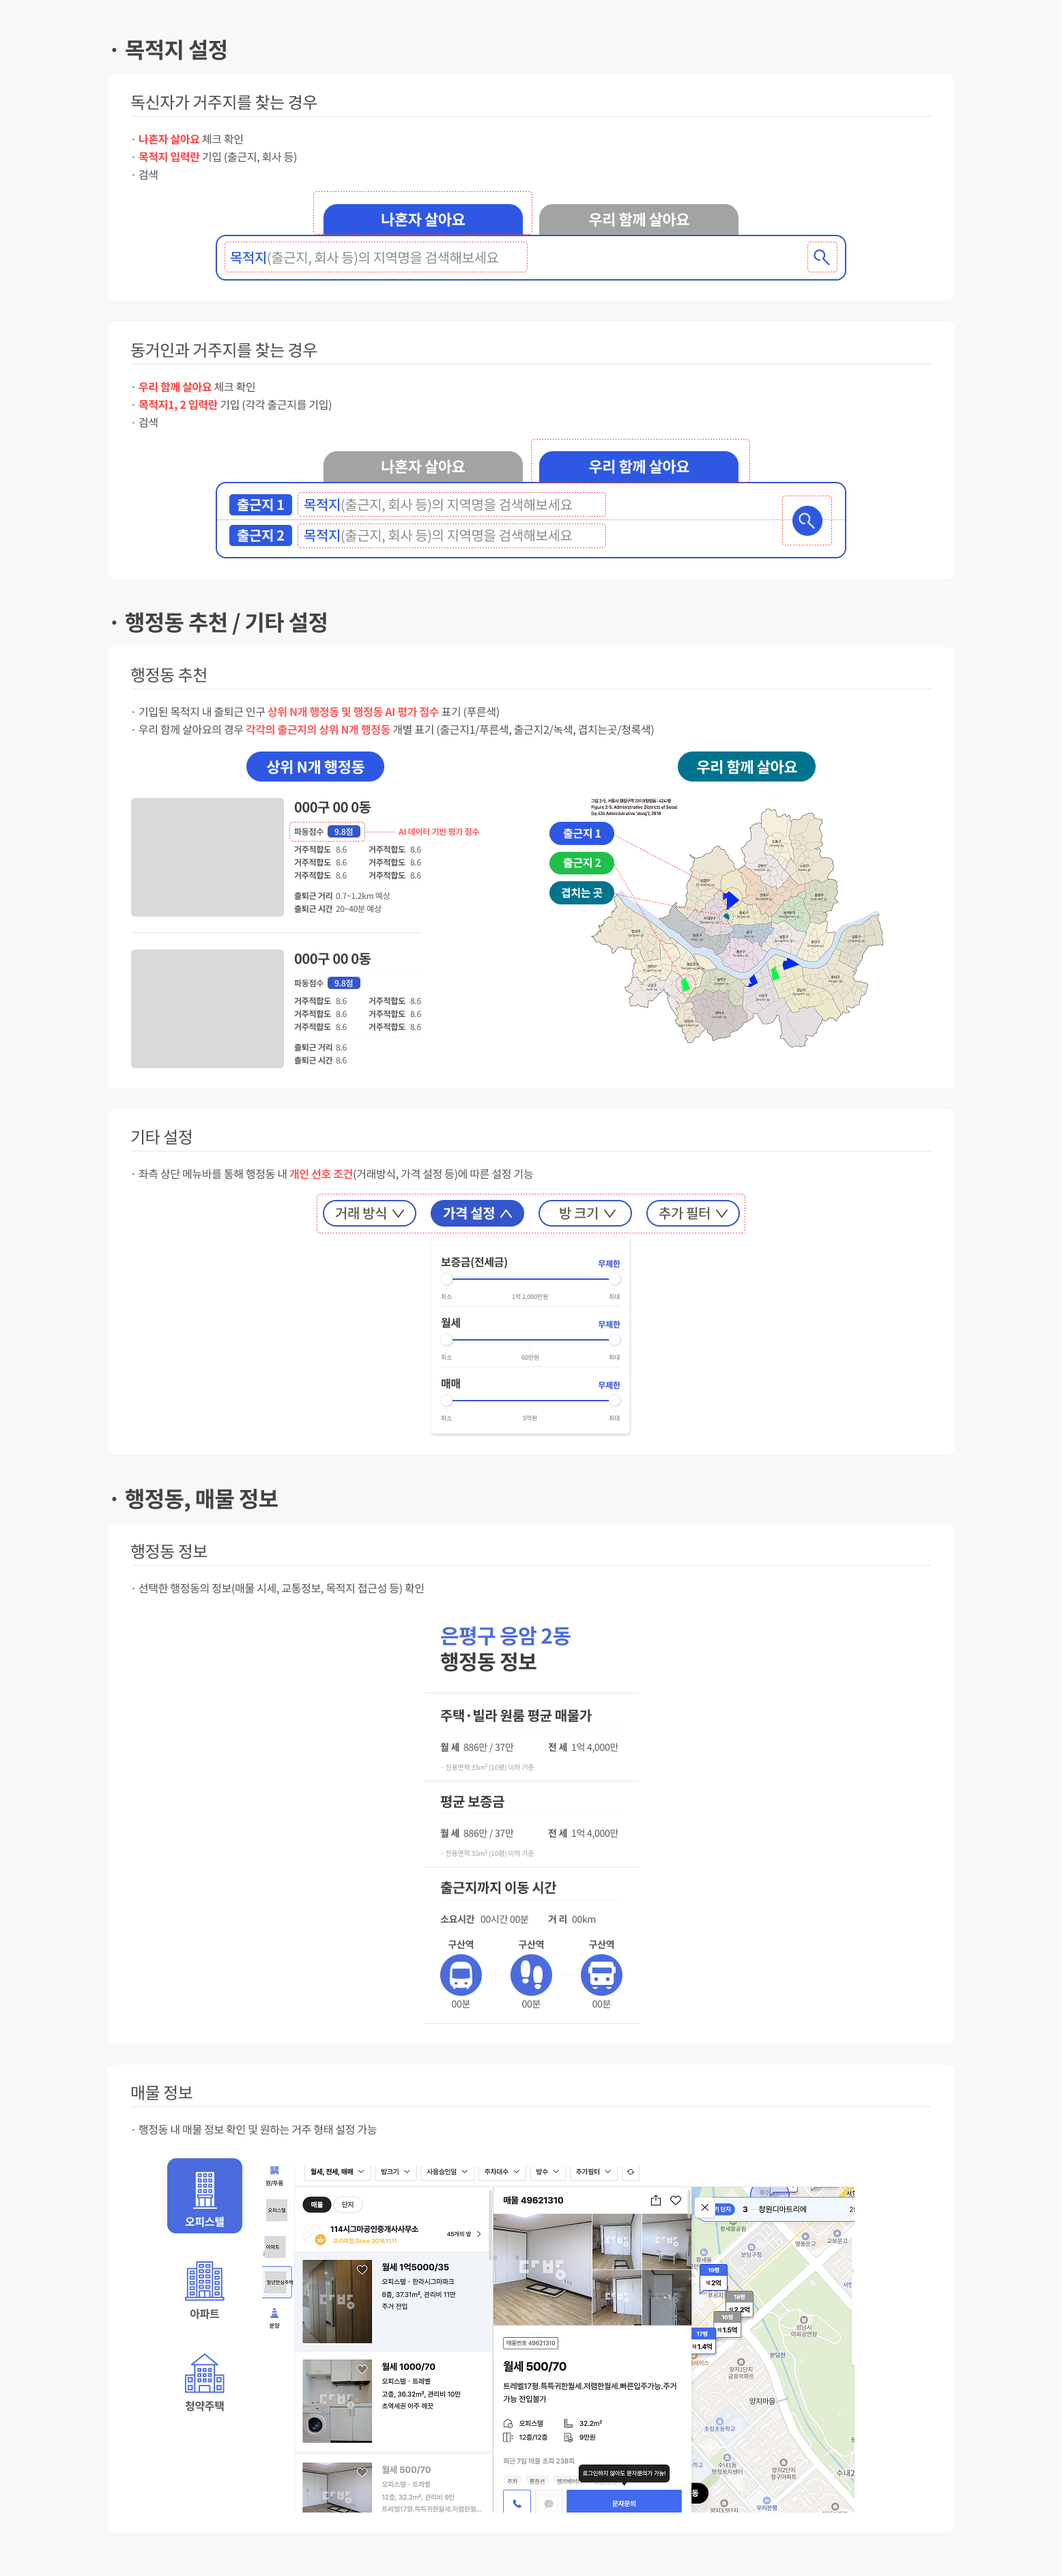
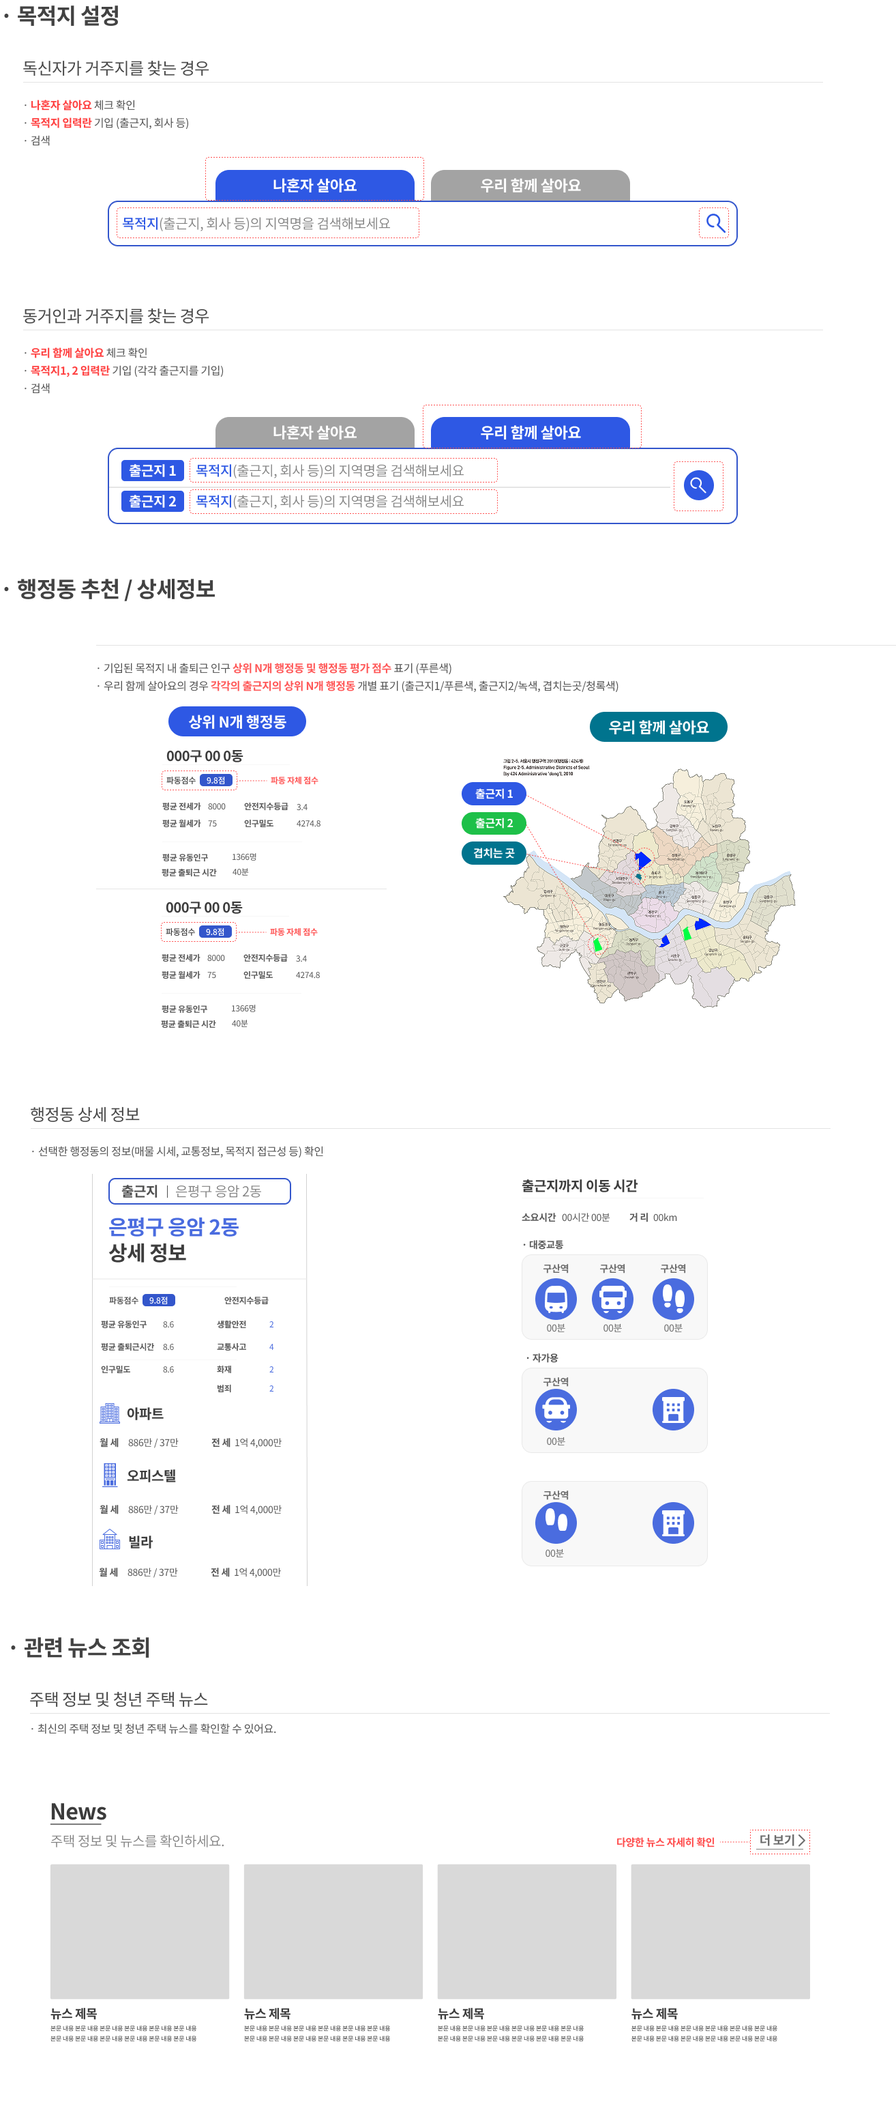
feat:Tmap api 사용하여 이동시간 구현

diff --git a/src/page/FindDong.tsx b/src/page/FindDong.tsx
@@ -4,11 +4,18 @@ import axios from "axios";
 import Header from "../components/Header";
 import { useEffect, useState } from "react";
 import Mobility from "../components/Mobility";
+import DongDetailMap from "../components/DongDetailMap";
 type RentPrice = {
   buildingType: string;
   avgJeonseDeposit: number;
   avgMonthlyDeposit: number;
   avgMonthlyRent: number;
+};
+type DongLocation = {
+  address: string;
+  type: string;
+  lat: number;
+  lng: number;
 };
 
 type DongDetailData = {
@@ -22,13 +29,15 @@ type DongDetailData = {
   crimes: number;
   publicSafety: number;
   rentPrice: RentPrice[];
+  location: DongLocation[];
 };
-const FindMap = () => {
+const FindDong = () => {
   const { selectedRecommendation, singleDestination } = useSearchStore();
   const [dongDetail, setDongDetail] = useState<DongDetailData | null>(null);
   const departureCode = singleDestination.dongCode;
   const arrivalCode = selectedRecommendation?.departureDong.adminDongCode || "";
 
+  const [location, setLocation] = useState<DongLocation[]>([]);
   useEffect(() => {
     const fetchDongDetail = async (
       arrivalCode: string,
@@ -38,7 +47,9 @@ const FindMap = () => {
         const res = await axios.get(
           `/api/dongne/detail?arrivalCode=${arrivalCode}&departureCode=${departureCode}`
         );
-        setDongDetail(res.data?.data ?? null);
+        const data = res.data?.data;
+        setDongDetail(data ?? null);
+        setLocation(data?.location ?? []); // ✅ 위치도 배열로 저장
       } catch (e) {
         console.error("추천 요청 실패:", e);
       }
@@ -51,11 +62,14 @@ const FindMap = () => {
 
   if (!dongDetail) return <div>로딩 중...</div>;
 
+  const departureLocation = location.find((loc) => loc.type === "departure");
+  const arrivalLocation = location.find((loc) => loc.type === "arrival");
+
   return (
     <div>
       <Header />
-      <div className="mt-5 ml-10 mr-10 flex flex-row space-x-10">
-        <aside className="basis-1/2 w-100 flex flex-col ">
+      <div className="mb-20 mt-5 ml-10 mr-10 flex flex-row space-x-30">
+        <aside className="h-[700px] snap-y overflow-y-auto basis-1/2 w-100 flex flex-col ">
           <div>
             <div className="p-2 w-full max-w-md border rounded-lg border-[#3356CC] border-2">
               <span className="font-[600] mr-2">출근지</span>
@@ -151,7 +165,7 @@ const FindMap = () => {
               <div className="mt-10" key={idx}>
                 <div className="flex items-center space-x-8">
                   <img
-                    className="w-[5.5vw] h-auto"
+                    className="w-[5vw] h-auto"
                     src={imagePath}
                     alt={buildingText}
                   />
@@ -174,18 +188,42 @@ const FindMap = () => {
                     {item.avgJeonseDeposit.toLocaleString()}
                   </span>
                 </div>
+
                 <hr className="mt-10 text-[#F2F2F2]" />
               </div>
             );
           })}
           <div>
-            <p>출근지까지 이동 시간</p>
-            <Mobility />
+            <p className="text-[#3D3D3D] font-bold text-2xl mt-5">
+              출근지까지 이동 시간
+            </p>
+            {departureLocation && arrivalLocation && (
+              <>
+                {console.log("출발지:", departureLocation)}
+                {console.log("도착지:", arrivalLocation)}
+                <Mobility
+                  start={{
+                    lat: departureLocation.lat,
+                    lng: departureLocation.lng,
+                  }}
+                  end={{
+                    lat: arrivalLocation.lat,
+                    lng: arrivalLocation.lng,
+                  }}
+                />
+              </>
+            )}
           </div>
         </aside>
+        <DongDetailMap
+          end={{
+            lat: arrivalLocation.lat,
+            lng: arrivalLocation.lng,
+          }}
+        />
       </div>
     </div>
   );
 };
 
-export default FindMap;
+export default FindDong;

diff --git a/src/components/Mobility.tsx b/src/components/Mobility.tsx
@@ -1,38 +1,98 @@
-import React from "react";
-import { useSearchStore } from "../store/SearchStore";
+import { useEffect, useState } from "react";
 
-const Mobility = () => {
-  const {
-    recommendations,
-    setSelectedRecommendation,
-    singleDestination,
-    multiDestinations,
-    inputType,
-  } = useSearchStore();
-  const departureCode = singleDestination.dongCode;
-  const arrivalCode = selectedRecommendation?.departureDong.adminDongCode || "";
-  const options = {
-    method: "POST",
-    headers: {
-      accept: "application/json",
-      "content-type": "application/json",
-      appKey: "e8wHh2tya84M88aReEpXCa5XTQf3xgo01aZG39k5",
-    },
-    body: JSON.stringify({
-      startX: "126.926493082645",
-      startY: "37.6134436427887",
-      endX: "127.126936754911",
-      endY: "37.5004198786564",
-      format: "json",
-      count: 1,
-    }),
+type Coord = {
+  lat: number;
+  lng: number;
+};
+
+type MobilityProps = {
+  start: Coord;
+  end: Coord;
+};
+
+const Mobility = ({ start, end }: MobilityProps) => {
+  const [errorMessage, setErrorMessage] = useState<string | null>(null);
+  const [route, setRoute] = useState<any | null>(null);
+  const appKey = import.meta.env.VITE_TMAP_APP_KEY;
+
+  const getRoute = async () => {
+    if (!start || !end) {
+      setErrorMessage("출발지 또는 도착지 좌표가 유효하지 않습니다.");
+      return;
+    }
+
+    try {
+      const now = new Date();
+      const searchDttm = now.toISOString().replace(/[-:T]/g, "").slice(0, 12); // YYYYMMDDHHmm
+
+      const options = {
+        method: "POST",
+        headers: {
+          accept: "application/json",
+          "content-type": "application/json",
+          appKey: appKey,
+        },
+        body: JSON.stringify({
+          startX: start.lng.toString(),
+          startY: start.lat.toString(),
+          endX: end.lng.toString(),
+          endY: end.lat.toString(),
+          format: "json",
+          count: 1,
+          searchDttm,
+        }),
+      };
+
+      const response = await fetch(
+        "https://apis.openapi.sk.com/transit/routes/sub",
+        options
+      );
+
+      if (!response.ok) {
+        const error = await response.json();
+        console.error("API 에러:", error);
+        setErrorMessage(`Tmap API 오류: ${response.status}`);
+        return;
+      }
+
+      const result = await response.json();
+      console.log("Tmap 결과:", result);
+
+      const itinerary = result.metaData?.plan?.itineraries?.[0];
+
+      if (!itinerary) {
+        setErrorMessage("도보 5분 이내에 위치해 있습니다");
+        return;
+      }
+
+      setRoute(itinerary);
+    } catch (err) {
+      console.error("Tmap API 요청 실패:", err);
+      setErrorMessage("Tmap API 요청 중 오류가 발생했습니다.");
+    }
   };
 
-  fetch("https://apis.openapi.sk.com/transit/routes/sub", options)
-    .then((res) => res.json())
-    .then((res) => console.log(res))
-    .catch((err) => console.error(err));
-  return <div></div>;
+  // 출발지/도착지가 바뀔 때만 호출되도록
+  useEffect(() => {
+    getRoute();
+  }, [start, end]);
+
+  return (
+    <div className="p-4 bg-gray-100 rounded-xl text-sm mt-5">
+      {errorMessage ? (
+        <p className="text-red-600">{errorMessage}</p>
+      ) : route ? (
+        <div>
+          <p>🚌 총 소요 시간: {route.totalTime}분</p>
+          <p>🚶 총 도보 시간: {route.totalWalkTime / 60}분</p>
+          <p>🔁 환승 횟수: {route.transferCount}회</p>
+          <p>📏 총 거리: {(route.totalDistance / 1000).toFixed(1)} km</p>
+        </div>
+      ) : (
+        <p>이동 경로 계산 중...</p>
+      )}
+    </div>
+  );
 };
 
 export default Mobility;

diff --git a/src/page/NewsList.tsx b/src/page/NewsList.tsx
@@ -15,10 +15,8 @@ const NewsList = () => {
         <h1 className="text-4xl font-bold mb-4">News</h1>
         <hr className="absolute left-0 w-screen border-t border-[#E5E5E5]" />
         <div className="relative z-10 mt-15">
-          <span className="border-b text-xl font-bold">청년안심주택</span>
-          <p className="my-3 text-[#818181]">
-            서울특별시의 청년안심주택사업의 다양한 정보를 찾아보세요.
-          </p>
+          <span className="border-b text-xl font-bold mb-2">주택 소식</span>
+          <p className="my-3 text-[#818181]">주택 정보 및 뉴스를 확인하세요.</p>
         </div>
         <div className="flex overflow-x-auto scroll-pl-6 snap-x ">
           <div className="flex w-max space-x-4">
@@ -33,8 +31,11 @@ const NewsList = () => {
           </div>
         </div>
         <div className="mt-10">
-          <span className="border-b text-xl font-bold mb-2">주택 소식</span>
-          <p className="my-3 text-[#818181]">주택 정보 및 뉴스를 확인하세요.</p>
+          <span className="border-b text-xl font-bold">청년안심주택</span>
+          <p className="my-3 text-[#818181]">
+            서울특별시의 청년안심주택사업의 다양한 정보를 찾아보세요.
+          </p>
+
           <div className="flex overflow-x-auto scroll-pl-6 snap-x">
             <div className="flex w-max space-x-4">
               {housingPriceNews.map((news, index) => (

diff --git a/src/components/DongDetailMap.tsx b/src/components/DongDetailMap.tsx
@@ -1,0 +1,31 @@
+import { MapContainer, TileLayer, Marker, Popup } from "react-leaflet";
+import "leaflet/dist/leaflet.css";
+
+type Coord = {
+  lat: number;
+  lng: number;
+};
+
+type Position = {
+  end: Coord;
+};
+const DongDetailMap = ({ end }: Position) => {
+  return (
+    <MapContainer
+      center={end} // 서울 중심
+      zoom={15}
+      style={{ height: "700px", width: "80%" }}
+    >
+      <TileLayer
+        attribution='&copy; <a href="https://www.openstreetmap.org/copyright">OpenStreetMap</a> contributors'
+        url="https://{s}.tile.openstreetmap.org/{z}/{x}/{y}.png"
+      />
+      <Marker position={end}>
+        <Popup>
+          A pretty CSS3 popup. <br /> Easily customizable.
+        </Popup>
+      </Marker>
+    </MapContainer>
+  );
+};
+export default DongDetailMap;

diff --git a/src/components/SeoulMap.tsx b/src/components/SeoulMap.tsx
@@ -10,8 +10,8 @@ const SeoulMap = () => {
   return (
     <MapContainer
       center={[37.5665, 126.978]} // 서울 중심
-      zoom={11}
-      style={{ height: "600px", width: "100%" }}
+      zoom={12}
+      style={{ height: "900px", width: "100%" }}
     >
       <TileLayer
         url="https://{s}.tile.openstreetmap.org/{z}/{x}/{y}.png"
